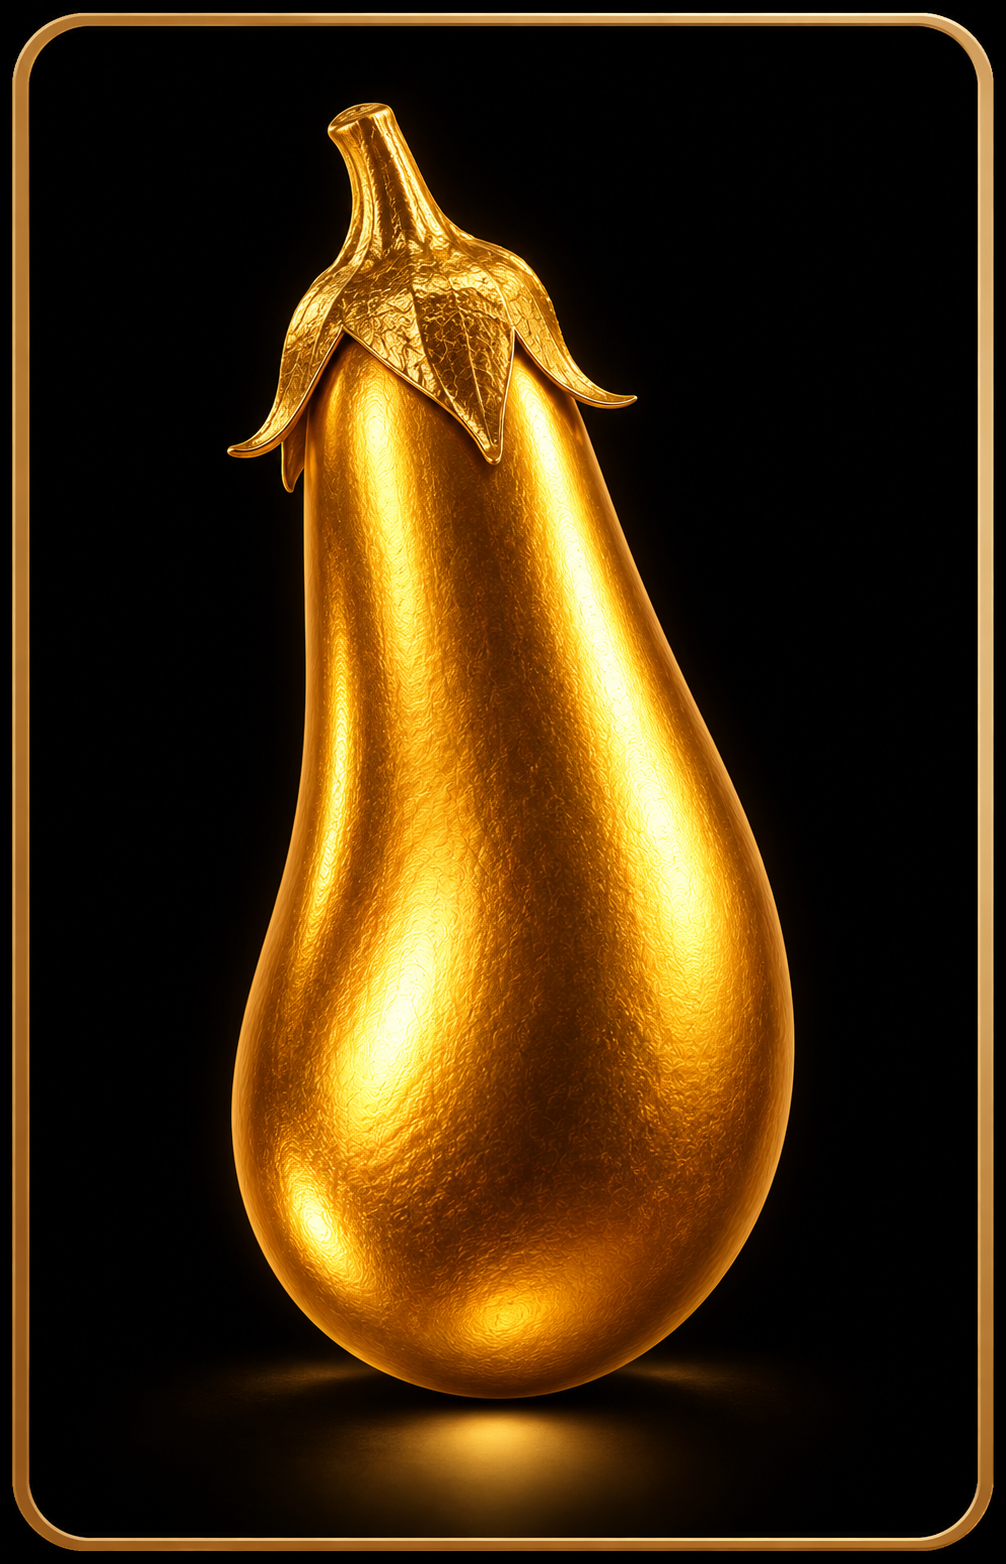
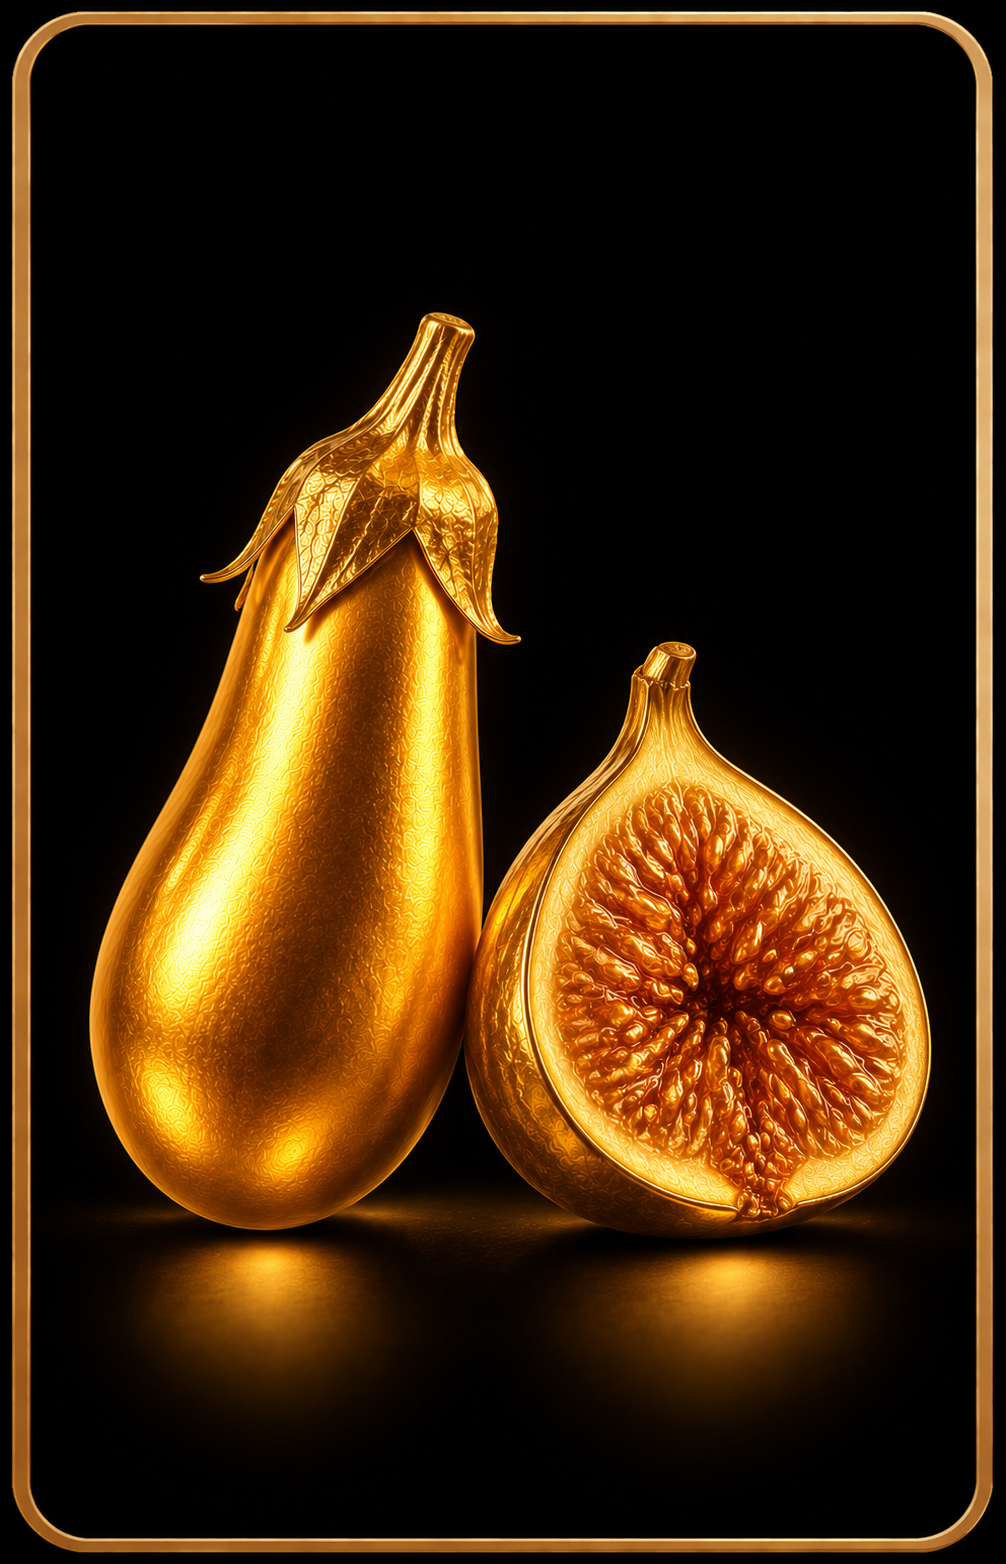
Complete Solo Spicy gameplay and spectator mode

diff --git a/script.js b/script.js
@@ -1785,15 +1785,67 @@ boutonRejoindre.addEventListener("click", async function () {
         return;
     }
 
-    const partieRef = ref(db, "parties/" + codePartieActuelle);
-    const snapshot = await get(partieRef);
+    const partieRef =
+    ref(
+        db,
+        "parties/" +
+        codePartieActuelle
+    );
 
-    if (!snapshot.exists()) {
-        alert("part not found");
-        return;
+const snapshot =
+    await get(partieRef);
+
+
+// ---------------------------------------------
+// PARTIE MULTIJOUEUR INTROUVABLE
+// → ON CHERCHE UN SOLO SPICY
+// ---------------------------------------------
+
+if (!snapshot.exists()) {
+
+    const spicySnapshot =
+        await get(
+            ref(
+                db,
+                "soloSpicy/" +
+                codePartieActuelle
+            )
+        );
+
+    if (spicySnapshot.exists()) {
+
+        const partieSpicy =
+            spicySnapshot.val();
+
+        if (
+            partieSpicy.etat === "waiting" ||
+            partieSpicy.etat === "playing"
+        ) {
+
+            const codeSpicy =
+                codePartieActuelle;
+
+            codePartieActuelle = "";
+
+            rejoindreSoloSpicySpectateur(
+                codeSpicy
+            );
+
+            return;
+        }
     }
 
-    const partie = snapshot.val();
+    alert("Game not found");
+    return;
+}
+
+
+// ---------------------------------------------
+// PARTIE MULTIJOUEUR CLASSIQUE
+// ---------------------------------------------
+
+const partie =
+    snapshot.val();
     if (partie.etat === "enCours") {
     alert("The game has already begun");
     return;
@@ -5889,7 +5941,7 @@ if (partie.etat === "playing") {
 } else {
 
     statutSpicy =
-        "⏳ WAITING FOR SPECTATOR";
+    '<span class="statutSpicyWaiting">⏳ WAITING FOR SPECTATOR</span>';
 
 }
 
@@ -5909,13 +5961,12 @@ bouton.innerHTML =
     partie.joueur +
     "<br>" +
     "👁 " +
-    nombreSpectateurs +
-    (
-        nombreSpectateurs === 1
-            ? " spectator"
-            : " spectators"
-    ) +
-    " — WATCH";
+nombreSpectateurs +
+(
+    nombreSpectateurs === 1
+        ? " spectator"
+        : " spectators"
+);
 
                 bouton.dataset.code =
                     code;
@@ -6010,6 +6061,20 @@ const spicyPlayerChallengeText =
     document.getElementById(
         "spicyPlayerChallengeText"
     );
+    const spicySpectatorEnd =
+    document.getElementById("spicySpectatorEnd");
+
+const spicySpectatorEndPlayer =
+    document.getElementById("spicySpectatorEndPlayer");
+
+const spicySpectatorEndScore =
+    document.getElementById("spicySpectatorEndScore");
+
+const spicySpectatorEndChallenges =
+    document.getElementById("spicySpectatorEndChallenges");
+
+const spicySpectatorEndBack =
+    document.getElementById("spicySpectatorEndBack");
 let codeSpicySpectateur = "";
 
 let refSpicySpectateur = null;
@@ -6304,34 +6369,109 @@ function surveillerEtatSoloSpicySpectateur(
 
     onValue(
         partieRef,
-        function (snapshot) {
+        async function (snapshot) {
 
             const partie =
                 snapshot.val();
 
-            if (!partie) {
+           if (!partie) {
+
+    if (refSpicySpectateur) {
+
+        await remove(
+            refSpicySpectateur
+        );
+
+        refSpicySpectateur = null;
+    }
+
+    codeSpicySpectateur = "";
+
+    spicySpectatorRoom.style.display =
+        "none";
+
+    accueil.style.display =
+        "block";
+
+    alert(
+        "The player left the game."
+    );
+
+    return;
+}
+
+            // PARTIE TERMINÉE
+            if (
+                partie.etat === "finished"
+            ) {
+
+                spicySpectatorStatus.style.display =
+                    "none";
+
+                spicySpectatorGameInfo.style.display =
+                    "none";
+
+                spicySpectatorPlateau.style.display =
+                    "none";
+
+                document.getElementById(
+                    "reglesSpicySpectateur"
+                ).style.display =
+                    "none";
+
+                spicySpectatorChallenge.style.display =
+                    "none";
+
+                spicySpectatorEndPlayer.textContent =
+                    "🎮 " +
+                    partie.joueur +
+                    " completed the challenge";
+
+                spicySpectatorEndScore.textContent =
+                    "🃏 Cards flipped: " +
+                    (partie.score || 0);
+
+                spicySpectatorEndChallenges.textContent =
+                    "🔥 Challenges completed: " +
+                    (partie.gagesEffectues || 0);
+
+                spicySpectatorEnd.style.display =
+                    "block";
+spicySpectatorVideo.style.display =
+    "none";
+
+spicySpectatorBack.style.display =
+    "none";
                 return;
             }
 
-            if (
-                partie.etat === "playing"
-            ) {
+            // PARTIE EN COURS
+           if (
+    partie.etat === "playing"
+) {
 
-                spicySpectatorStatus.textContent =
-                    "🌶 The game has started!";
+    document.getElementById(
+        "reglesSpicySpectateur"
+    ).style.display = "block";
 
-                afficherDeckSpicySpectateur(
-                    partie
-                );
+    spicySpectatorStatus.textContent =
+        "🌶 The game has started!";
 
-            } 
-            else {
+    afficherDeckSpicySpectateur(
+        partie
+    );
 
-                spicySpectatorStatus.textContent =
-                    "Waiting for the player to start...";
+}
+else {
 
-            }
+    document.getElementById(
+        "reglesSpicySpectateur"
+    ).style.display = "none";
 
+    spicySpectatorStatus.textContent =
+        "Waiting for the player to start...";
+
+}
         }
     );
 
@@ -6354,6 +6494,10 @@ const spicyGameVideo =
     document.getElementById(
         "spicyGameVideo"
     );
+    const spicyGameQuit =
+    document.getElementById(
+        "spicyGameQuit"
+    );
 
 const spicyPlateau =
     document.getElementById(
@@ -6363,6 +6507,7 @@ const spicyPlateau =
 
 spicyGameVideo.addEventListener(
     "click",
+    
     function () {
 
         if (!codeSpicyActuel) {
@@ -6375,6 +6520,31 @@ spicyGameVideo.addEventListener(
             "_blank"
         );
 
+    }
+);
+spicyGameQuit.addEventListener(
+    "click",
+    async function () {
+
+        if (codeSpicyActuel) {
+
+            await remove(
+                ref(
+                    db,
+                    "soloSpicy/" +
+                    codeSpicyActuel
+                )
+            );
+        }
+
+        codeSpicyActuel = "";
+        spicyRef = null;
+
+        spicyGame.style.display =
+            "none";
+
+        accueil.style.display =
+            "block";
     }
 );
 // =====================================================
@@ -7323,7 +7493,7 @@ function surveillerGageSpicySpectateur(
     gage.type === "cadeau"
 ) {
 
-    texte =
+    
       texte = "🎁 GIFT — Choose a challenge with the player's consent";
 
     spicyGiftChoice.style.display =
@@ -7521,12 +7691,38 @@ spicyEndBack.addEventListener(
                     codeSpicyActuel
                 )
             );
+
         }
 
         codeSpicyActuel = "";
         spicyRef = null;
 
         spicyEndGame.style.display =
+            "none";
+
+        accueil.style.display =
+            "block";
+    }
+);
+spicySpectatorEndBack.addEventListener(
+    "click",
+    async function () {
+
+        if (refSpicySpectateur) {
+
+            await remove(
+                refSpicySpectateur
+            );
+
+            refSpicySpectateur = null;
+        }
+
+        codeSpicySpectateur = "";
+
+        spicySpectatorEnd.style.display =
+            "none";
+
+        spicySpectatorRoom.style.display =
             "none";
 
         accueil.style.display =

diff --git a/index.htm b/index.htm
@@ -151,6 +151,27 @@
 
 </div>
 <div id="spicySpectatorPlateau"></div>
+<div id="spicySpectatorEnd" style="display:none;">
+
+    <h2>🌶 SOLO SPICY COMPLETE</h2>
+
+    <p id="spicySpectatorEndPlayer">
+        🎮 Player completed the challenge
+    </p>
+
+    <p id="spicySpectatorEndScore">
+        🃏 Cards flipped: 0
+    </p>
+
+    <p id="spicySpectatorEndChallenges">
+        🔥 Challenges completed: 0
+    </p>
+
+    <button id="spicySpectatorEndBack" class="boutonMenu">
+        BACK TO HOME
+    </button>
+
+</div>
 
     <br>
 
@@ -184,6 +205,9 @@
         class="boutonMenu">
         🎥 VIDEO & CHAT
     </button>
+    <button id="spicyGameQuit" class="boutonMenu">
+    QUIT GAME
+</button>
     <div
     id="spicyPlayerChallenge"
     style="display:none;"

diff --git a/style.css b/style.css
@@ -1552,3 +1552,13 @@ transition: 0.2s;
     max-height: 100% !important;
     object-fit: contain !important;
 }
+.partieSpicyPublique {
+    width: 230px;
+    min-height: 120px;
+    font-size: 18px;
+    line-height: 1.2;
+    padding: 10px;
+}
+.statutSpicyWaiting {
+    font-size: 14px;
+}
